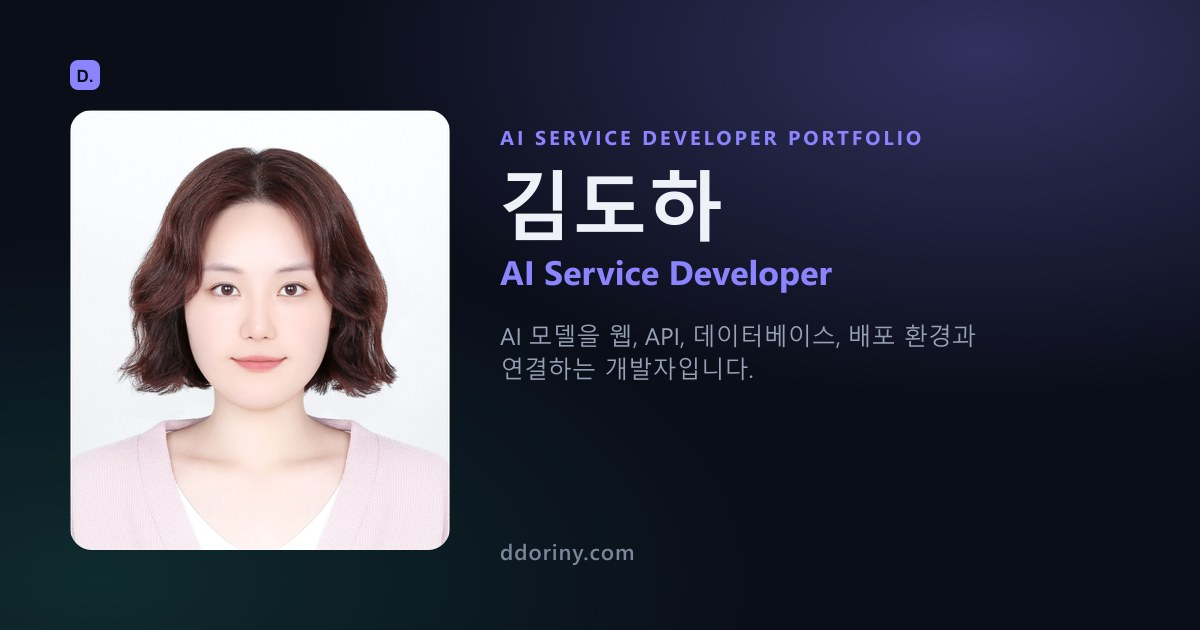
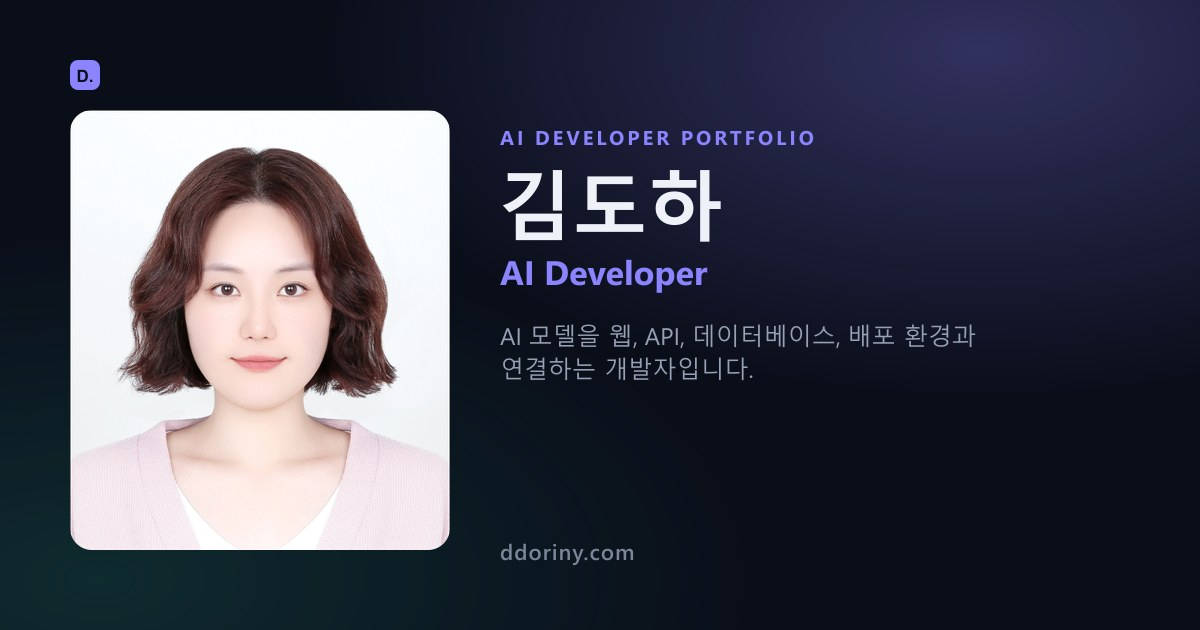
feat: rebrand from AI Service Developer to AI Developer, resize hero panel and add profile photo

Changed region(s): [[0.4317, 0.3921, 0.7092, 0.4825], [0.4317, 0.2111, 0.7708, 0.2413]]

diff --git a/src/styles/global.css b/src/styles/global.css
@@ -78,7 +78,9 @@ main { flex: 1; animation: page-fade-in .55s cubic-bezier(.16,.84,.44,1) both; }
 .scroll-top-button:hover { border-color: var(--primary); background: var(--primary); color: var(--on-primary); }
 .eyebrow,.section-number { font: 500 .75rem/1 'DM Mono',monospace; letter-spacing: .14em; color: var(--primary); }
 .hero { position: relative; overflow: hidden; min-height: 640px; padding-top: 94px; }
-.hero-top { position: relative; z-index: 1; display: flex; align-items: flex-start; justify-content: flex-end; padding: 10px 0 40px; }
+.hero-top { position: relative; z-index: 1; display: flex; align-items: center; justify-content: flex-end; gap: 18px; padding: 10px 0 40px; }
+.hero-profile { flex: 0 0 auto; animation: fade-up .8s cubic-bezier(.16,.84,.44,1) .1s both; }
+.hero-profile img { width: 84px; height: 84px; border-radius: 16px; object-fit: cover; border: 2px solid rgba(255,255,255,.18); box-shadow: 0 16px 32px rgba(0,0,0,.3); }
 .hero-backdrop { position: absolute; inset: 0; z-index: 0; overflow: hidden; }
 .hero-backdrop-track { display: flex; width: 100%; height: 100%; transition: transform 1.1s cubic-bezier(.65,0,.35,1); }
 .hero-backdrop-slide { flex: 0 0 100%; height: 100%; }
@@ -102,16 +104,16 @@ main { flex: 1; animation: page-fade-in .55s cubic-bezier(.16,.84,.44,1) both; }
 .button.secondary { background: var(--surface-2); }
 .button.ghost { border-color: transparent; color: var(--muted-strong); }
 .button.light { background: white; color: #111523; border-color: white; }
-.hero-panel { width: 100%; max-width: 400px; padding: 0 28px 25px; border: 1px solid rgba(255,255,255,.08); border-radius: 16px; background: linear-gradient(145deg,#141b2a,#0d121e); box-shadow: 0 30px 80px rgba(0,0,0,.28); animation: panel-in .9s cubic-bezier(.16,.84,.44,1) .25s both, panel-float 6s ease-in-out 1.3s infinite; }
+.hero-panel { width: 100%; max-width: 300px; padding: 0 20px 18px; border: 1px solid rgba(255,255,255,.08); border-radius: 14px; background: linear-gradient(145deg,#141b2a,#0d121e); box-shadow: 0 24px 60px rgba(0,0,0,.28); animation: panel-in .9s cubic-bezier(.16,.84,.44,1) .25s both, panel-float 6s ease-in-out 1.3s infinite; }
 @keyframes panel-in { from { opacity: 0; transform: rotate(1deg) translateY(30px) scale(.97); } to { opacity: 1; transform: rotate(1deg) translateY(0) scale(1); } }
 @keyframes panel-float { 0%,100% { transform: rotate(1deg) translateY(0); } 50% { transform: rotate(1deg) translateY(-10px); } }
-.code-dots { height: 48px; display: flex; align-items: center; gap: 7px; border-bottom: 1px solid rgba(255,255,255,.08); }
-.code-dots span { width: 8px; height: 8px; border-radius: 50%; background: #3a4253; }
+.code-dots { height: 40px; display: flex; align-items: center; gap: 6px; border-bottom: 1px solid rgba(255,255,255,.08); }
+.code-dots span { width: 7px; height: 7px; border-radius: 50%; background: #3a4253; }
 .code-dots span:first-child { background: #ff6e79; }.code-dots span:nth-child(2){background:#f4bf4f}.code-dots span:last-child{background:#4fd18b}
-.hero-code { padding: 28px 0 18px; font: .82rem/1.8 'DM Mono',monospace; color: #c4cada; }
+.hero-code { padding: 18px 0 14px; font: .72rem/1.65 'DM Mono',monospace; color: #c4cada; }
 .hero-code p { margin: 0; color: inherit; line-height: inherit; }
 .code-key { color: #bd83ff; }.code-value{color:#7ed9c4}
-.availability { padding-top: 20px; border-top: 1px solid rgba(255,255,255,.08); font-size: .74rem; color: #8d97a9; }
+.availability { padding-top: 14px; border-top: 1px solid rgba(255,255,255,.08); font-size: .68rem; color: #8d97a9; }
 .availability span { display: inline-block; width: 7px; height: 7px; margin-right: 8px; border-radius: 50%; background: #4fd18b; box-shadow: 0 0 0 4px rgba(79,209,139,.1); }
 .section-heading { display: grid; grid-template-columns: 1fr 1fr; align-items: end; margin-bottom: 46px; }
 .section-heading .eyebrow { grid-column: 1 / -1; margin-bottom: 17px; }
@@ -319,7 +321,7 @@ blockquote { margin: 0; padding: 30px 32px; border-left: 3px solid var(--accent)
 :is(.project-grid,.side-project-grid,.learning-grid,.cert-list,.skills-grid,.resume-grid,.contact-grid,.system-flow,.feature-grid,.trouble-list,.detail-content) > .reveal:nth-child(5) { transition-delay: .28s; }
 :is(.project-grid,.side-project-grid,.learning-grid,.cert-list,.skills-grid,.resume-grid,.contact-grid,.system-flow,.feature-grid,.trouble-list,.detail-content) > .reveal:nth-child(6) { transition-delay: .35s; }
 @media (max-width: 900px) { .hero-top{justify-content:center}.hero-band h1{white-space:normal}.hero-panel{max-width:480px}.project-grid{grid-template-columns:1fr 1fr}.project-card:last-child{grid-column:1/-1}.section-heading{grid-template-columns:1fr}.section-heading p{margin:18px 0 0}.detail-title{display:block}.detail-actions{margin-top:35px}.skills-grid{grid-template-columns:1fr}.detail-layout{grid-template-columns:1fr}.detail-nav{display:none}.system-flow{grid-template-columns:1fr 1fr}.flow-step:not(:last-child)::after{display:none}.learning-grid{grid-template-columns:1fr 1fr}.learning-header{align-items:flex-start;flex-direction:column}.learning-header .button{margin:-18px 0 45px}.side-project-grid{grid-template-columns:1fr 1fr}.contact-grid{grid-template-columns:1fr 1fr}.role-strength-grid{grid-template-columns:1fr}.role-summary-card{grid-template-columns:1fr 1fr}.hero-backdrop-scrim{background:linear-gradient(to top, var(--bg), color-mix(in srgb, var(--bg) 70%, transparent) 30%, color-mix(in srgb, var(--bg) 45%, transparent) 60%, color-mix(in srgb, var(--bg) 22%, transparent))} }
-@media (max-width: 640px) { .container{width:min(100% - 30px,1180px)}.section{padding:78px 0}.menu-button{display:block}.header-actions{gap:14px}.theme-switcher{gap:6px}.nav{position:absolute;left:0;right:0;top:72px;display:none;flex-direction:column;align-items:flex-start;gap:0;padding:12px 15px 20px;border-bottom:1px solid var(--line);background:var(--surface)}.nav.open{display:flex}.nav a{width:100%;padding:14px}.nav a.active::after{display:none}.hero{padding-top:70px;min-height:0}.hero-top{padding:6px 0 22px}.hero-band{position:relative;left:auto;right:auto;bottom:auto}.hero-band-inner{flex-direction:column;align-items:flex-start;gap:14px;padding:22px 0}.hero-band h1{font-size:1.35rem}.hero-description{max-width:none}.hero-panel{max-width:320px;padding-inline:20px}.hero-code{font-size:.7rem}.project-grid{grid-template-columns:1fr}.project-card:last-child{grid-column:auto}.project-card{min-height:420px}.cta-box{align-items:flex-start;flex-direction:column;padding:34px 28px}.footer-inner{padding-block:25px;align-items:flex-start;flex-direction:column;justify-content:center;gap:12px}.page-section{padding-top:65px}.detail-hero{padding:48px 0 60px}.back-link{margin-bottom:45px}.detail-title h1{font-size:3.2rem}.detail-actions{flex-direction:column}.detail-actions .resource-link{width:100%}.detail-layout{padding-top:60px;padding-bottom:80px}.detail-section{padding-bottom:65px;margin-bottom:65px}.check-list,.feature-grid,.resource-grid,.system-flow,.cert-list{grid-template-columns:1fr}.trouble-card{padding:21px}.trouble-card dl div{grid-template-columns:1fr;gap:8px}.resume-header{align-items:flex-start;flex-direction:column}.resume-grid{grid-template-columns:1fr}.resume-block.full{grid-column:auto}.resume-block{padding:25px}.timeline-item{grid-template-columns:1fr;gap:10px}.summary-table div{grid-template-columns:1fr;gap:6px}.work-item-head{grid-template-columns:1fr;gap:10px}.work-tasks{grid-template-columns:1fr}.resume-projects a{flex-direction:column}.resume-project-meta div{grid-template-columns:1fr;gap:2px}.contact-grid{grid-template-columns:1fr}.contact-grid>a{min-height:210px}.button-row .button{flex:1}.button-row .ghost{flex-basis:100%}.learning-grid{grid-template-columns:1fr}.roadmap{flex-direction:column;align-items:flex-start;gap:18px;padding-top:6px}.roadmap-line{display:none}.roadmap-step{flex-direction:row;justify-content:flex-start;gap:14px}.roadmap-node{width:40px;height:40px;font-size:.7rem}.roadmap-title{max-width:none;text-align:left}.learning-note{padding:32px 25px}.side-project-grid{grid-template-columns:1fr}.role-summary-card{grid-template-columns:1fr;gap:16px} }
+@media (max-width: 640px) { .container{width:min(100% - 30px,1180px)}.section{padding:78px 0}.menu-button{display:block}.header-actions{gap:14px}.theme-switcher{gap:6px}.nav{position:absolute;left:0;right:0;top:72px;display:none;flex-direction:column;align-items:flex-start;gap:0;padding:12px 15px 20px;border-bottom:1px solid var(--line);background:var(--surface)}.nav.open{display:flex}.nav a{width:100%;padding:14px}.nav a.active::after{display:none}.hero{padding-top:70px;min-height:0}.hero-top{padding:6px 0 22px}.hero-band{position:relative;left:auto;right:auto;bottom:auto}.hero-band-inner{flex-direction:column;align-items:flex-start;gap:14px;padding:22px 0}.hero-band h1{font-size:1.35rem}.hero-description{max-width:none}.hero-profile img{width:56px;height:56px;border-radius:12px}.hero-panel{max-width:240px;padding-inline:16px}.hero-code{font-size:.62rem}.project-grid{grid-template-columns:1fr}.project-card:last-child{grid-column:auto}.project-card{min-height:420px}.cta-box{align-items:flex-start;flex-direction:column;padding:34px 28px}.footer-inner{padding-block:25px;align-items:flex-start;flex-direction:column;justify-content:center;gap:12px}.page-section{padding-top:65px}.detail-hero{padding:48px 0 60px}.back-link{margin-bottom:45px}.detail-title h1{font-size:3.2rem}.detail-actions{flex-direction:column}.detail-actions .resource-link{width:100%}.detail-layout{padding-top:60px;padding-bottom:80px}.detail-section{padding-bottom:65px;margin-bottom:65px}.check-list,.feature-grid,.resource-grid,.system-flow,.cert-list{grid-template-columns:1fr}.trouble-card{padding:21px}.trouble-card dl div{grid-template-columns:1fr;gap:8px}.resume-header{align-items:flex-start;flex-direction:column}.resume-grid{grid-template-columns:1fr}.resume-block.full{grid-column:auto}.resume-block{padding:25px}.timeline-item{grid-template-columns:1fr;gap:10px}.summary-table div{grid-template-columns:1fr;gap:6px}.work-item-head{grid-template-columns:1fr;gap:10px}.work-tasks{grid-template-columns:1fr}.resume-projects a{flex-direction:column}.resume-project-meta div{grid-template-columns:1fr;gap:2px}.contact-grid{grid-template-columns:1fr}.contact-grid>a{min-height:210px}.button-row .button{flex:1}.button-row .ghost{flex-basis:100%}.learning-grid{grid-template-columns:1fr}.roadmap{flex-direction:column;align-items:flex-start;gap:18px;padding-top:6px}.roadmap-line{display:none}.roadmap-step{flex-direction:row;justify-content:flex-start;gap:14px}.roadmap-node{width:40px;height:40px;font-size:.7rem}.roadmap-title{max-width:none;text-align:left}.learning-note{padding:32px 25px}.side-project-grid{grid-template-columns:1fr}.role-summary-card{grid-template-columns:1fr;gap:16px} }
 @media (prefers-reduced-motion: reduce) { html{scroll-behavior:auto}.button{transition:none}*{animation-duration:.001ms!important;animation-iteration-count:1!important;transition-duration:.001ms!important}.reveal{opacity:1!important;transform:none!important}body::before{animation:none!important}.hero-backdrop-track{transition:none!important} }
 @media print {
   .site-header, .site-footer, .theme-switcher, .menu-button, .resume-photo-card button, .center-action, .scroll-top-button, body::before { display: none !important; }

diff --git a/src/data/profile.ts b/src/data/profile.ts
@@ -2,15 +2,15 @@ type Certification = { title: string; issuer: string; date: string; image?: stri
 
 export const profile = {
   name: '김도하',
-  role: 'AI Service Developer',
+  role: 'AI Developer',
   photo: '/images/KIMDOHA.jpg',
-  intro: '온라인 마케팅·운영 직무에서 5년 8개월의 실무 경험을 쌓은 뒤, 데이터 기반 의사결정과 업무 자동화의 필요성을 느껴 AI 서비스 개발자로 전환을 준비하고 있습니다.',
+  intro: '온라인 마케팅·운영 직무에서 5년 8개월의 실무 경험을 쌓은 뒤, 데이터 기반 의사결정과 업무 자동화의 필요성을 느껴 AI 개발자로 전환을 준비하고 있습니다.',
   email: 'jihun22400669@gmail.com',
   github: 'https://github.com/DDORINY',
   portfolio: 'https://ddoriny.com',
   notion: 'https://app.notion.com/p/doreen1004/0-AI-320bec735c3780c7bfcffcc2425e59f2',
   positioning: {
-    position: 'AI 서비스 개발자 / Python·Flask 기반 AI 백엔드 개발자',
+    position: 'AI 개발자 / Python·Flask 기반 AI 백엔드 개발자',
     statement: 'AI 모델 결과를 API, DB, 프론트엔드 화면과 연결해 실제 사용 가능한 서비스로 구현하는 개발자',
   },
   coreCompetencies: [
@@ -22,7 +22,7 @@ export const profile = {
   careerSummary: [
     { label: '총 경력', value: '5년 8개월' },
     { label: '이전 직무', value: '온라인 마케팅, 광고 운영, 쇼핑몰 운영, 콘텐츠 제작, 운영 지원' },
-    { label: '전환 목표', value: 'AI 서비스 개발자, AI 객체탐지 서비스 개발자' },
+    { label: '전환 목표', value: 'AI 개발자, AI 객체탐지 개발자' },
     { label: '핵심 강점', value: '운영 경험 기반의 문제 파악 능력, 데이터 기반 사고, 서비스 흐름 이해, AI 모델과 웹 서비스 연동 경험' },
     { label: '관심 분야', value: 'Computer Vision, Object Detection, Flask API, 데이터베이스 연동, AI 서비스 운영' },
     { label: '입사 가능일', value: '협의 가능 (2026.07.09 ~ 09.09 AI 심화반 교육 예정이나 근무 조건 협의 시 교육 기간 중에도 즉시 입사 가능)' },
@@ -34,15 +34,15 @@ export const profile = {
     '객체 탐지 모델을 훈련하는 과정에서는 데이터의 중요성을 직접 체감했습니다. 미니 프로젝트와 파이널 프로젝트 모두에서 직접 데이터를 수집하고 라벨링을 진행했으며, 중간 학습 결과를 확인하면서 부족한 클래스의 데이터를 추가로 확보하고 문제가 되는 데이터는 제거하는 방식으로 데이터셋을 개선했습니다. 특히 파이널 프로젝트에서는 AI허브 데이터 약 2만 장, 직접 수집한 데이터 약 2천 장, 그리고 두 데이터를 결합해 클래스 밸런스를 조정한 데이터셋까지 총 3가지 데이터셋을 구성해 훈련 결과를 비교했습니다.',
     '모델 실험에서는 YOLOv8부터 YOLOv11까지 다양한 버전을 적용했고, RT-DETR 모델도 함께 훈련하며 객체 탐지 성능을 비교했습니다. 이 과정에서 옵티마이저, 이미지 해상도, 사전 학습 가중치 등 학습 조건을 바꿔가며 결과 차이를 확인했고, GPU와 CPU 환경 차이에 따른 실행 및 학습 환경도 비교했습니다. 또한 Keras를 활용해 직접 구성한 모델 구조와 YOLO 기반 구조를 실험해보며, Keras는 구조를 이해하고 실험하는 데에는 도움이 되었지만 실제 객체 탐지 서비스에 적용하기에는 구현과 성능 측면에서 어려움이 크다는 점을 경험했습니다.',
     '미니 프로젝트가 객체를 탐지하고 바운딩 박스로 표시하는 수준이었다면, 파이널 프로젝트에서는 탐지 결과를 후처리해 실제 서비스 이벤트로 연결하는 데 집중했습니다. 탐지된 객체를 추적하고, 일정 시간 동안 움직임이 없을 경우 정차 이벤트를 발생시키는 로직을 구현했으며, ROI 구역을 지정해 해당 영역 안에 차량이 정차하는 경우 별도의 이벤트가 발생하도록 구성했습니다. 이를 통해 객체 탐지는 모델 결과를 출력하는 것에서 끝나는 것이 아니라, 서비스 목적에 맞는 후처리와 판단 로직이 결합되어야 실제 사용자에게 의미 있는 기능이 된다는 점을 배웠습니다.',
-    '또한 서비스 운영 안정성을 높이기 위해 보안 점검과 패치에도 참여했습니다. 위험 가능성이 있는 API 접근, 내부 서비스 노출, 인증·권한 검증 흐름을 점검하고 개선 방향을 정리했으며, 현재는 일일 점검 체크리스트를 통해 서버 연결 상태, API 응답, DB 연동, AI 서버 상태 등을 확인하고 있습니다. 이 경험을 통해 AI 서비스 개발자는 모델 성능뿐 아니라 데이터 품질, 서비스 연결 구조, 보안, 운영 안정성까지 함께 고려해야 한다는 점을 배웠습니다.',
+    '또한 서비스 운영 안정성을 높이기 위해 보안 점검과 패치에도 참여했습니다. 위험 가능성이 있는 API 접근, 내부 서비스 노출, 인증·권한 검증 흐름을 점검하고 개선 방향을 정리했으며, 현재는 일일 점검 체크리스트를 통해 서버 연결 상태, API 응답, DB 연동, AI 서버 상태 등을 확인하고 있습니다. 이 경험을 통해 AI 개발자는 모델 성능뿐 아니라 데이터 품질, 서비스 연결 구조, 보안, 운영 안정성까지 함께 고려해야 한다는 점을 배웠습니다.',
     '프로젝트를 진행하며 서버 연결 오류, API 응답 문제, DB 연동 문제, 배포 환경 차이 등 여러 이슈를 마주했습니다. 처음에는 오류 메시지를 단순히 해결해야 할 문제로만 봤지만, 점차 로그를 확인하고 요청 흐름을 따라가며 원인을 좁혀가는 방식으로 접근하게 되었습니다. 이를 통해 문제 해결은 감으로 판단하는 것이 아니라, 데이터와 흐름을 근거로 원인을 검증하는 과정이라는 점을 배웠습니다.',
     '또한 운영·마케팅 업무 경험을 바탕으로, 실제 현장에서는 반복적인 확인 작업과 수작업 관리가 많다는 것을 알고 있었습니다. 부트캠프 프로젝트를 거치며 이러한 운영 문제를 개발로 자동화할 수 있다는 가능성을 확인했고, 단순한 기능 구현보다 사용자의 업무 흐름을 개선하는 서비스 개발에 더 큰 관심을 갖게 되었습니다.',
     '저는 앞으로도 AI를 단순히 기능으로 붙이는 개발자가 아니라, 실제 문제를 이해하고 이를 서비스 구조 안에서 안정적으로 연결하는 개발자로 성장하고 싶습니다. Python, Flask, Spring Boot, Next.js 기반의 프로젝트 경험을 바탕으로 운영 문제를 발견하고, 데이터를 연결하며, 사용자가 체감할 수 있는 AI 연동 서비스를 만드는 SW 개발자가 되겠습니다.',
   ],
-  desiredRoles: ['AI 서비스 개발자', 'AI 객체탐지 서비스 개발자', 'Computer Vision 개발자', 'Python / Flask 기반 AI 백엔드 개발자', 'AI 모델 연동 서비스 개발자'],
+  desiredRoles: ['AI 개발자', 'AI 객체탐지 개발자', 'Computer Vision 개발자', 'Python / Flask 기반 AI 백엔드 개발자', 'AI 모델 연동 개발자'],
   roleStrengths: [
     {
-      role: 'AI 서비스 개발자',
+      role: 'AI 개발자',
       points: [
         'YOLO 기반 객체탐지 결과를 웹 관제 화면과 DB에 연결',
         'AI VM · Flask VM · Frontend VM · DB VM 분리 구조 경험',
@@ -205,10 +205,10 @@ export const learningProjectMap = [
 
 export const contactSummary = 'AI 객체탐지 서비스 개발자를 목표로, 모델 실험부터 API 연동, DB 저장, 프론트엔드 화면 반영, Linux/VM 기반 배포 점검까지 경험했습니다.'
 
-export const contactKeywords = ['AI Service Developer', 'Computer Vision', 'Object Detection', 'Flask / FastAPI', 'MySQL', 'Linux / VM', 'Deployment']
+export const contactKeywords = ['AI Developer', 'Computer Vision', 'Object Detection', 'Flask / FastAPI', 'MySQL', 'Linux / VM', 'Deployment']
 
 export const contactTopics = [
-  'AI 서비스 개발자 포지션',
+  'AI 개발자 포지션',
   'Computer Vision / Object Detection 프로젝트',
   'Flask/FastAPI 기반 AI API 연동',
   '프론트엔드와 AI 결과 시각화 연동',
@@ -222,7 +222,7 @@ export const contactFaq = [
     a: '5년 8개월간 온라인 마케팅·운영 업무를 하며 반복적인 확인 작업과 수작업 관리가 많다는 것을 느꼈습니다. 데이터를 기반으로 판단하고 자동화할 수 있는 부분이 많다고 생각했고, 이를 직접 만들 수 있는 개발자가 되고 싶어 컴퓨터공학을 전공하고 AI/데이터 분석 부트캠프에 참여했습니다.',
   },
   {
-    q: 'AI 모델 연구가 아니라 왜 \'AI 서비스 개발자\'를 목표로 하시나요?',
+    q: 'AI 모델 연구가 아니라 왜 \'AI 개발자\'를 목표로 하시나요?',
     a: 'STACCATO 프로젝트를 진행하며 모델의 정확도만큼 중요한 것이 그 결과를 실제 화면·DB·운영 흐름에 안정적으로 연결하는 일이라는 것을 체감했습니다. 모델을 만드는 사람보다, 모델의 결과를 사용자가 체감할 수 있는 서비스로 완성하는 사람으로 성장하고 싶습니다.',
   },
   {

diff --git a/index.html b/index.html
@@ -3,7 +3,7 @@
   <head>
     <meta charset="UTF-8" />
     <meta name="viewport" content="width=device-width, initial-scale=1.0" />
-    <meta name="description" content="AI 모델을 웹, API, 데이터베이스, 배포 환경과 연결하는 김도하의 AI 서비스 개발자 포트폴리오입니다." />
+    <meta name="description" content="AI 모델을 웹, API, 데이터베이스, 배포 환경과 연결하는 김도하의 AI 개발자 포트폴리오입니다." />
     <meta name="theme-color" content="#0b1020" />
     <link rel="icon" type="image/svg+xml" href="/favicon.svg" />
     <link rel="alternate icon" href="/favicon-32.png" />
@@ -19,20 +19,20 @@
     <noscript>
       <link rel="stylesheet" href="https://fonts.googleapis.com/css2?family=DM+Mono:wght@400;500&family=Manrope:wght@400;500;600;700;800&family=Noto+Sans+KR:wght@400;500;600;700&display=swap" />
     </noscript>
-    <title>김도하 | AI Service Developer</title>
+    <title>김도하 | AI Developer</title>
 
     <meta property="og:type" content="website" />
-    <meta property="og:site_name" content="김도하 | AI Service Developer" />
-    <meta property="og:title" content="김도하 | AI Service Developer" />
-    <meta property="og:description" content="AI 모델을 웹, API, 데이터베이스, 배포 환경과 연결하는 김도하의 AI 서비스 개발자 포트폴리오입니다." />
+    <meta property="og:site_name" content="김도하 | AI Developer" />
+    <meta property="og:title" content="김도하 | AI Developer" />
+    <meta property="og:description" content="AI 모델을 웹, API, 데이터베이스, 배포 환경과 연결하는 김도하의 AI 개발자 포트폴리오입니다." />
     <meta property="og:url" content="https://ddoriny.com/" />
     <meta property="og:image" content="https://ddoriny.com/images/og-image.jpg" />
     <meta property="og:image:width" content="1200" />
     <meta property="og:image:height" content="630" />
     <meta property="og:locale" content="ko_KR" />
     <meta name="twitter:card" content="summary_large_image" />
-    <meta name="twitter:title" content="김도하 | AI Service Developer" />
-    <meta name="twitter:description" content="AI 모델을 웹, API, 데이터베이스, 배포 환경과 연결하는 김도하의 AI 서비스 개발자 포트폴리오입니다." />
+    <meta name="twitter:title" content="김도하 | AI Developer" />
+    <meta name="twitter:description" content="AI 모델을 웹, API, 데이터베이스, 배포 환경과 연결하는 김도하의 AI 개발자 포트폴리오입니다." />
     <meta name="twitter:image" content="https://ddoriny.com/images/og-image.jpg" />
     <script>
       (function () {

diff --git a/src/pages/Home.tsx b/src/pages/Home.tsx
@@ -15,12 +15,15 @@ export default function Home() {
       <section className="hero section">
         <ProjectShowcase />
         <div className="container hero-top">
+          <div className="hero-profile">
+            <img src={profile.photo} alt={`${profile.name} 프로필 사진`} />
+          </div>
           <div className="hero-panel" aria-label="개발자 프로필 요약">
             <div className="code-dots"><span /><span /><span /></div>
             <div className="hero-code">
               <p><span className="code-key">const</span> developer = {'{'}</p>
               <p>&nbsp;&nbsp;name: <span className="code-value">'{profile.name}'</span>,</p>
-              <p>&nbsp;&nbsp;focus: <span className="code-value">'AI Service'</span>,</p>
+              <p>&nbsp;&nbsp;focus: <span className="code-value">'AI Developer'</span>,</p>
               <p>&nbsp;&nbsp;connects: [</p>
               <p>&nbsp;&nbsp;&nbsp;&nbsp;<span className="code-value">'Model'</span>, <span className="code-value">'API'</span>,</p>
               <p>&nbsp;&nbsp;&nbsp;&nbsp;<span className="code-value">'Web'</span>, <span className="code-value">'Database'</span></p>
@@ -32,7 +35,7 @@ export default function Home() {
         <div className="hero-band">
           <div className="container hero-band-inner">
             <div className="hero-band-heading">
-              <p className="eyebrow">AI SERVICE DEVELOPER PORTFOLIO</p>
+              <p className="eyebrow">AI DEVELOPER PORTFOLIO</p>
               <h1>AI를 연결해 <span>사용 가능한 서비스</span>를 만듭니다.</h1>
             </div>
             <p className="hero-description">{profile.intro}</p>

diff --git a/src/data/sideProjects.ts b/src/data/sideProjects.ts
@@ -16,7 +16,7 @@ export const sideProjects: SideProject[] = [
     slug: 'portfolio-hub',
     name: 'AI Developer Portfolio Hub',
     description: '프로젝트·이력서·학습 기록을 데이터 기반 구조로 통합한 개인 포트폴리오 사이트 (지금 보고 계신 이 사이트입니다)',
-    note: 'AI 서비스 개발자로 전환하는 과정을 보여주기 위해 React + Vite + TypeScript로 직접 설계·구현했습니다. 프로젝트·프로필 정보를 데이터 파일로 분리해, 새 프로젝트를 추가할 때 화면 코드를 건드리지 않고도 카드·상세·이력서에 동시에 반영되도록 만들었습니다.',
+    note: 'AI 개발자로 전환하는 과정을 보여주기 위해 React + Vite + TypeScript로 직접 설계·구현했습니다. 프로젝트·프로필 정보를 데이터 파일로 분리해, 새 프로젝트를 추가할 때 화면 코드를 건드리지 않고도 카드·상세·이력서에 동시에 반영되도록 만들었습니다.',
     image: '/images/portfolio-hub-01.png',
     url: 'https://ddoriny.com/',
     github: 'https://github.com/DDORINY/kim-doha-portfolio',

diff --git a/src/pages/Contact.tsx b/src/pages/Contact.tsx
@@ -8,7 +8,7 @@ export default function Contact() {
   return (
     <section className="section page-section">
       <div className="container contact-page">
-        <SectionHeading eyebrow="CONTACT" title="AI 서비스 개발자로의 기회를 기다립니다." description="Computer Vision, Flask/FastAPI 연동, DB 저장, 프론트엔드 통합, 배포·운영 점검 경험을 바탕으로 실제 서비스에 연결되는 AI 개발을 지향합니다." />
+        <SectionHeading eyebrow="CONTACT" title="AI 개발자로의 기회를 기다립니다." description="Computer Vision, Flask/FastAPI 연동, DB 저장, 프론트엔드 통합, 배포·운영 점검 경험을 바탕으로 실제 서비스에 연결되는 AI 개발을 지향합니다." />
         <Reveal as="div" className="contact-summary">
           <span className="eyebrow">SUMMARY</span>
           <p>{contactSummary}</p>

diff --git a/src/components/Layout.tsx b/src/components/Layout.tsx
@@ -46,7 +46,7 @@ export default function Layout({ children }: { children: ReactNode }) {
       <main key={location.pathname}>{children}</main>
       <footer className="site-footer">
         <div className="container footer-inner">
-          <p>© {new Date().getFullYear()} {profile.name}. AI Service Developer Portfolio.</p>
+          <p>© {new Date().getFullYear()} {profile.name}. AI Developer Portfolio.</p>
           <Link to="/contact">함께 이야기하기 →</Link>
         </div>
       </footer>

diff --git a/README.md b/README.md
@@ -2,7 +2,7 @@
 
 ## 프로젝트 소개
 
-AI 서비스 개발자로 전환하는 과정을 보여주는 개인 포트폴리오 사이트입니다. 프로젝트·이력서·학습 기록이 노션, 깃허브, 개별 PDF로 흩어지는 문제를 해결하기 위해, React + Vite + TypeScript로 데이터 기반 구조를 직접 설계·구현했습니다. 라이브: [ddoriny.com](https://ddoriny.com/)
+AI 개발자로 전환하는 과정을 보여주는 개인 포트폴리오 사이트입니다. 프로젝트·이력서·학습 기록이 노션, 깃허브, 개별 PDF로 흩어지는 문제를 해결하기 위해, React + Vite + TypeScript로 데이터 기반 구조를 직접 설계·구현했습니다. 라이브: [ddoriny.com](https://ddoriny.com/)
 
 ## 주요 기능
 
